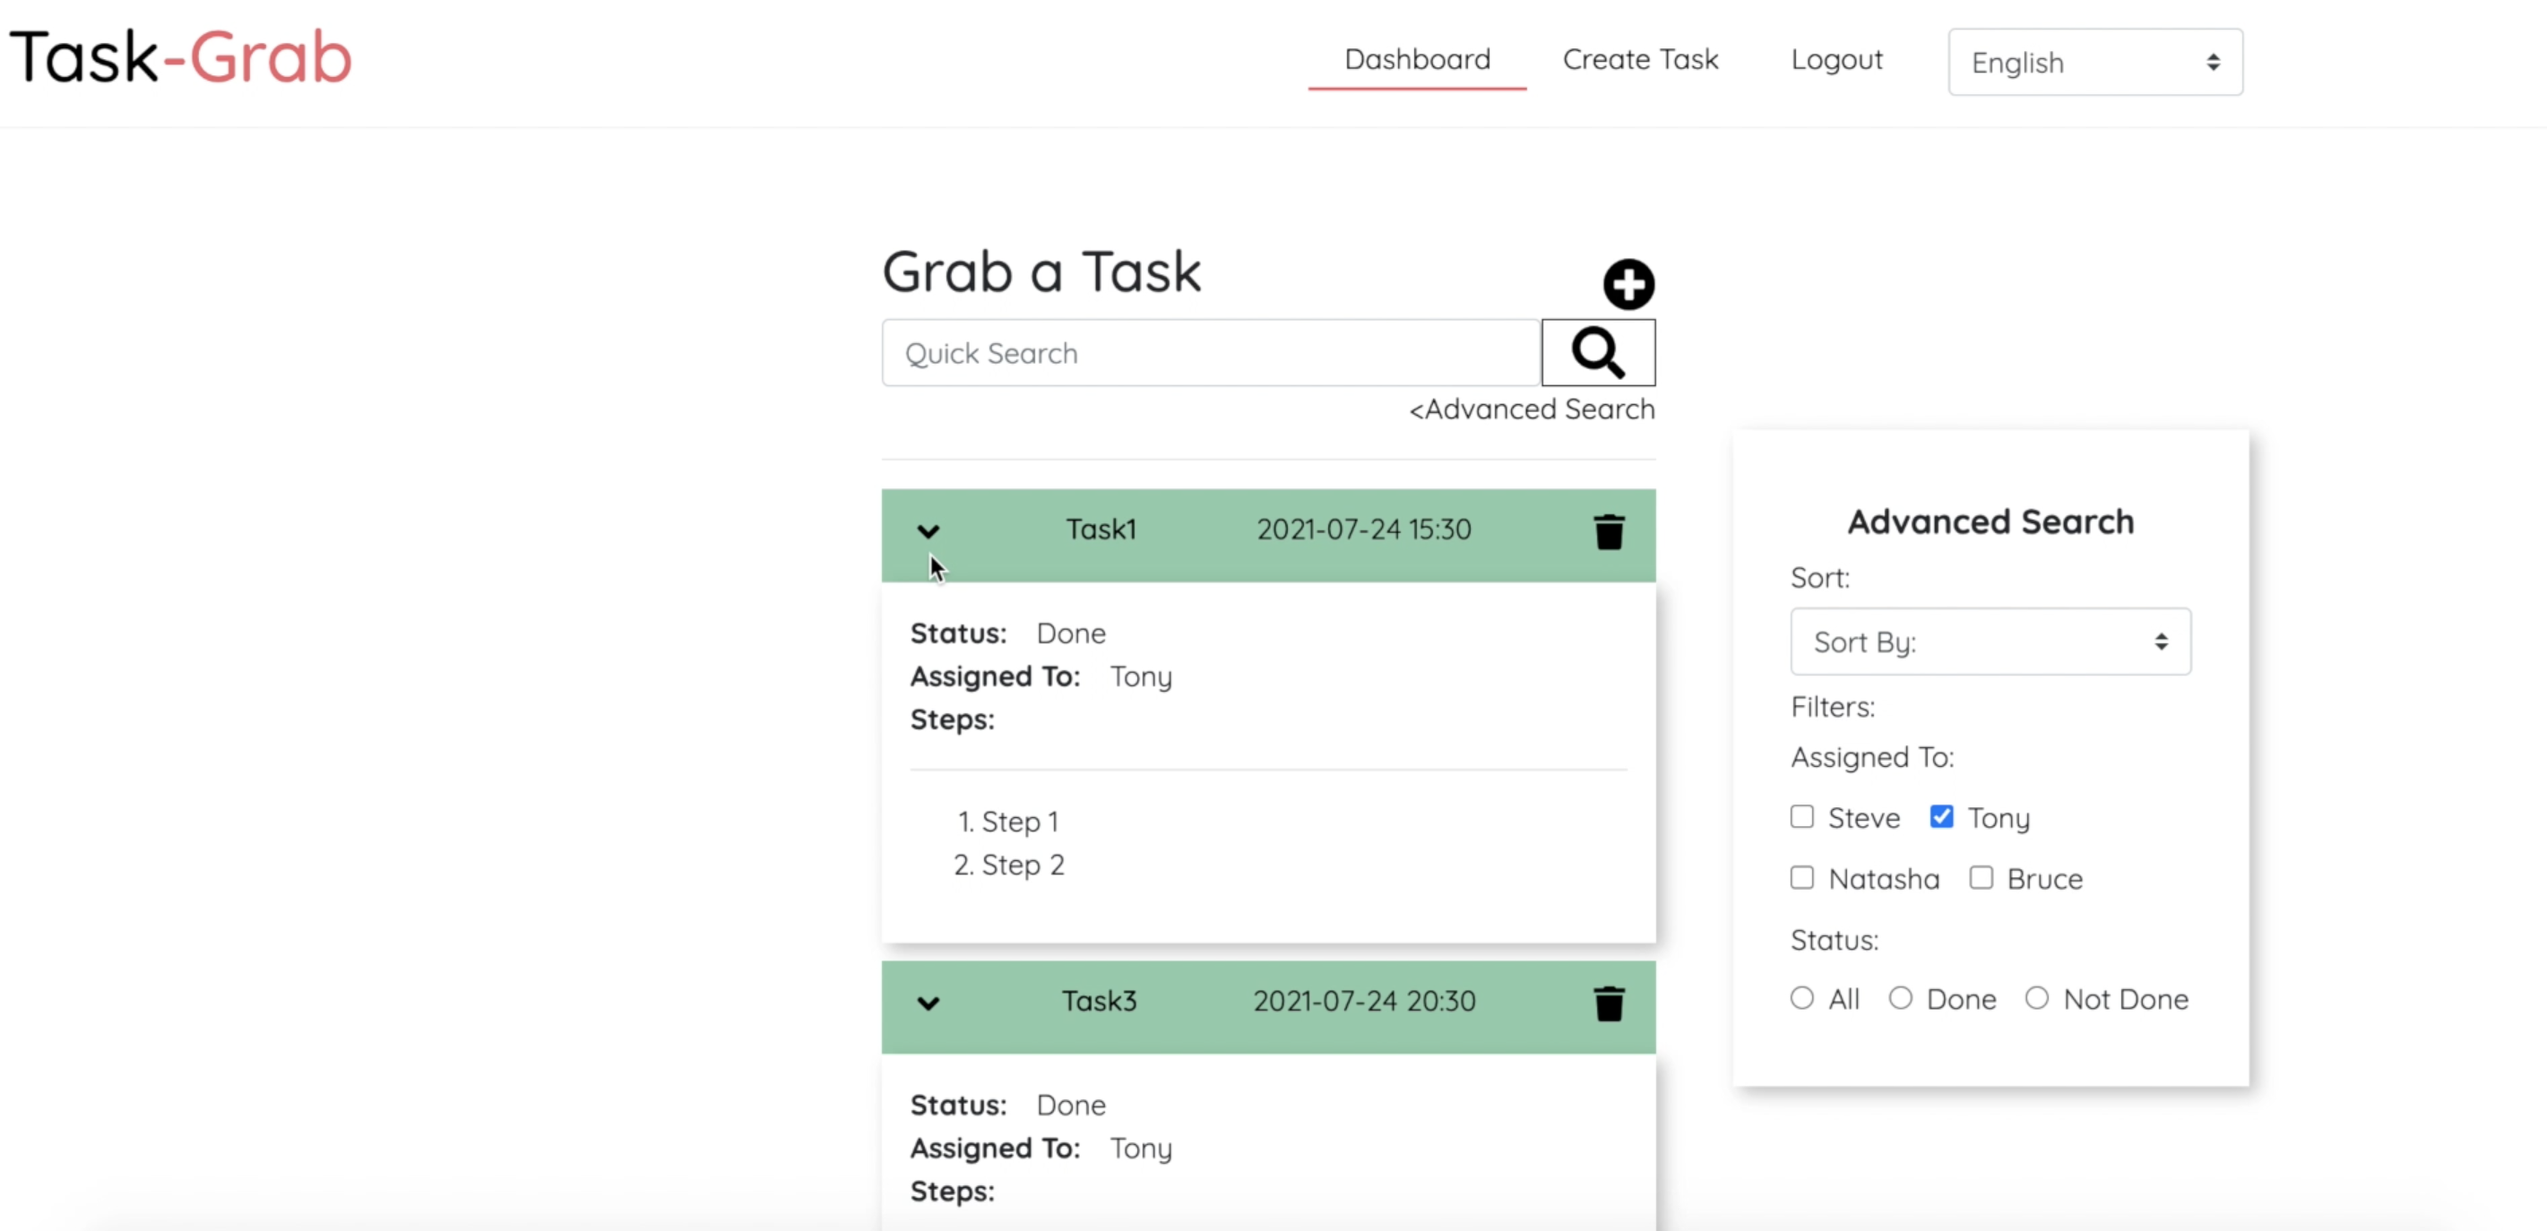
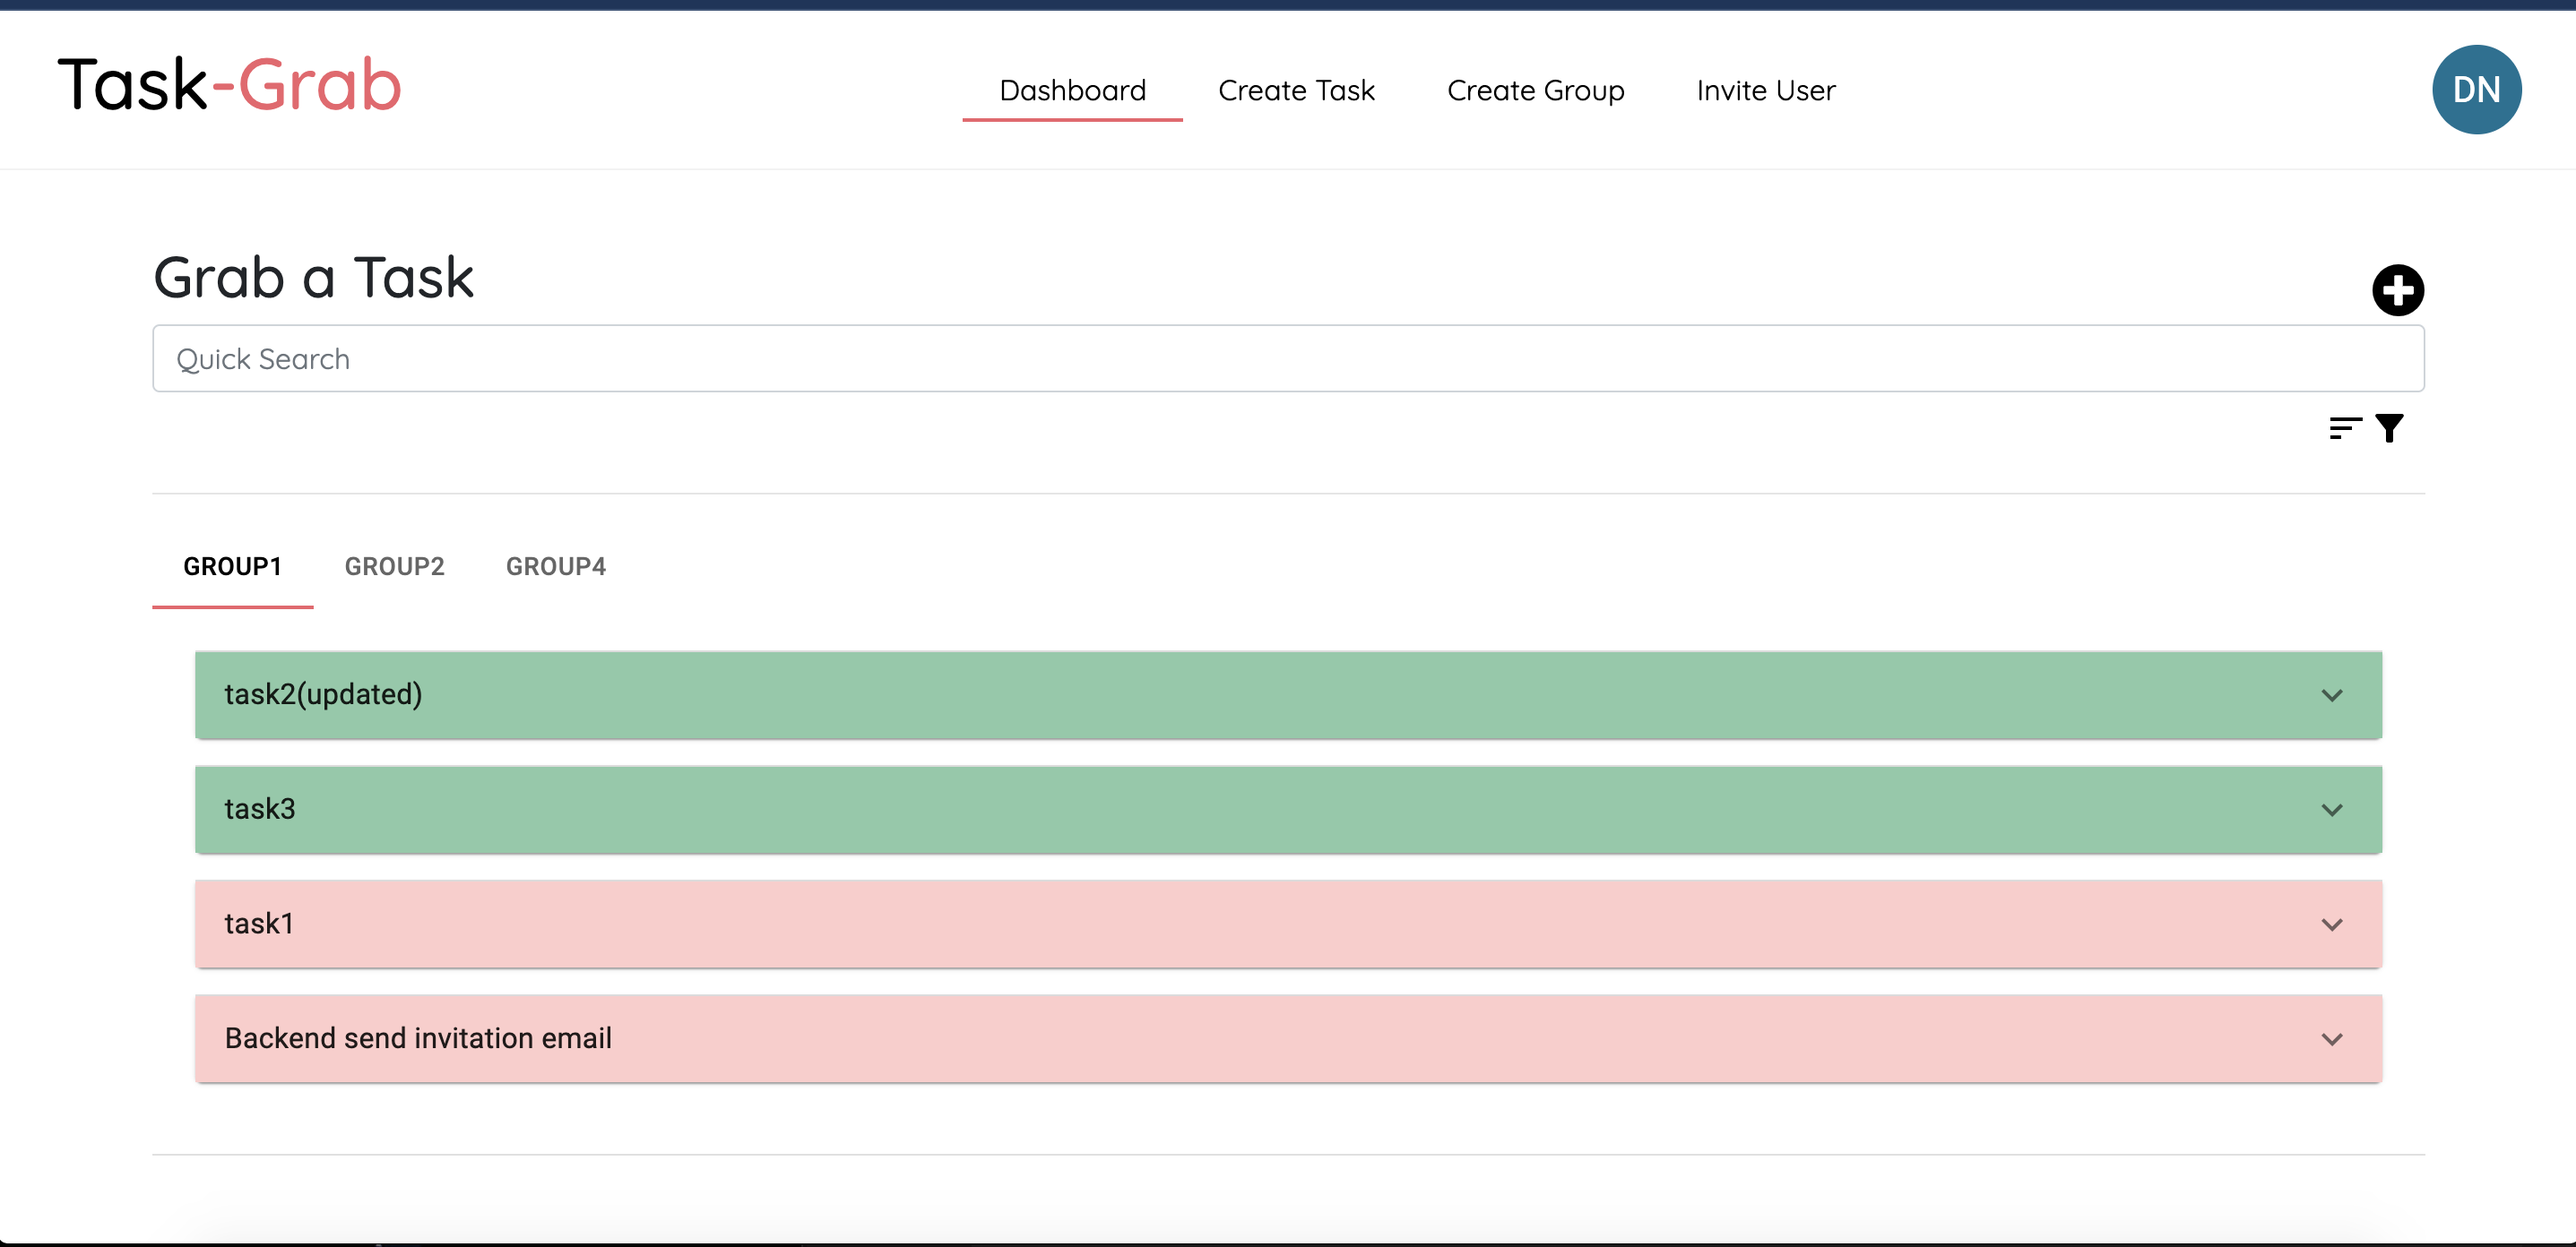
update README and navbar to be sticky and remove translate selector

diff --git a/frontend/src/components/Navigation/index.js b/frontend/src/components/Navigation/index.js
@@ -184,12 +184,14 @@ export  const Navbar = () => {
                                     {!loggedIn&& <NavLink  activeClassName="active"  to="/login">{t('navbar.link4')}</NavLink>
                                     }
                             </ListItem>
-                            <ListItem>
+
+                            {/*TO-DO: complete translation
+                             <ListItem>
                                 <select name="lang" id="lang-select" className="custom-select" value={lang} onChange={handleLangChange}>
                                     <option value="en">English</option>
                                     <option value="fr">Français</option>
                                 </select>
-                            </ListItem>
+                            </ListItem> */}
                         </List>
                         
                     
@@ -211,10 +213,11 @@ export  const Navbar = () => {
                 {loggedIn&&<NavLink  activeClassName="active"  to="/create-group">Create Group</NavLink>}
                 {loggedIn&&<NavLink  activeClassName="active"  to="/invite-user">Invite User</NavLink>}
                 {!loggedIn&&<NavLink  activeClassName="active"  to="/login">{t('navbar.link4')}</NavLink>}
+                {/*TO-DO: complete translation 
                 <select name="lang" id="lang-select" className="custom-select" value={lang} onChange={handleLangChange}>
                     <option value="en">English</option>
                     <option value="fr">Français</option>
-                </select>
+                </select> */}
 
                 </div>
 

diff --git a/frontend/src/components/Task/search.js b/frontend/src/components/Task/search.js
@@ -161,15 +161,15 @@ const SearchBar = (props) => {
     }
 
     const handleAssigneeFilter = (e) =>{
-        let val = e.target.value;
-        setAssigneeFilter(val);
+        let assignee = e.target.value;
+        setAssigneeFilter(assignee);
         let t = tasksCp.map(task=>({...task}));
             
-        if (val === -1)
-            val = null;
+        if (assignee === -1)
+            assignee = null;
         t = t.filter(task=>{
             if (task.group===watchTeam)
-                return task.assignee === val;
+                return task.assignee === assignee;
             return 1;
         })
        setTasks(t);
@@ -182,7 +182,7 @@ const SearchBar = (props) => {
         setSortValue();
         setStatusFilter();
         setAssigneeFilter();
-        console.log(statusFilter);
+       
         
     }
     return (
@@ -243,7 +243,7 @@ const SearchBar = (props) => {
                         <FormControl component="fieldset" >
                             <FormLabel component="legend">Filter By Status:</FormLabel>
                             <RadioGroup 
-                                value = {statusFilter}
+                                value = {statusFilter||null}
                                 onChange={handleStatusFilterTasks}
                             
                             row

diff --git a/frontend/src/index.css b/frontend/src/index.css
@@ -7,7 +7,7 @@
   --bkg-clr:#fff;
   --done-accent-clr:#88CAA8;
   --notDone-accent-clr:#FFCCCB;
-
+  scroll-behavior: smooth;
   
   
 } 
@@ -40,6 +40,10 @@ color:var(--accent-clr);
   border-bottom: 1px solid #f2f2f2;
   justify-content: space-between;
   padding: 1rem 2rem;
+  position:sticky;
+  top:0;
+  background-color: #fff;
+  z-index: 2;
 
 }
 

diff --git a/README.md b/README.md
@@ -7,6 +7,7 @@
 ![](./assets/img2.png)
 ![](./assets/img3.png)
 ![](./assets/img4.png)
+![](./assets/img5.png)
 
 ## Scripts
 
